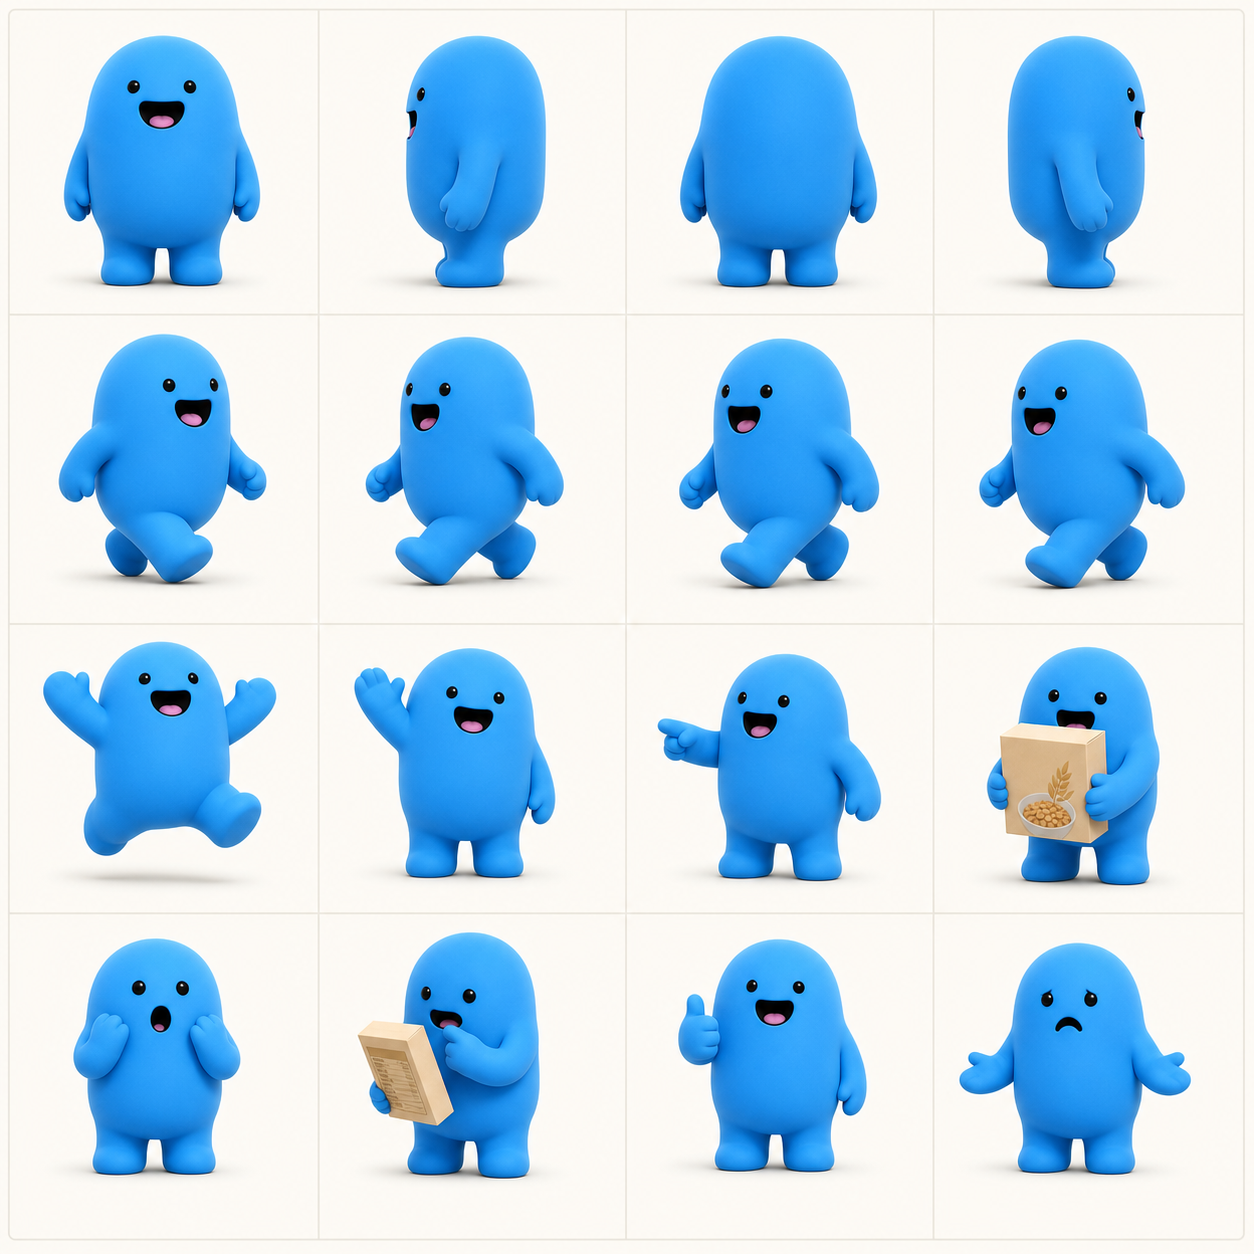
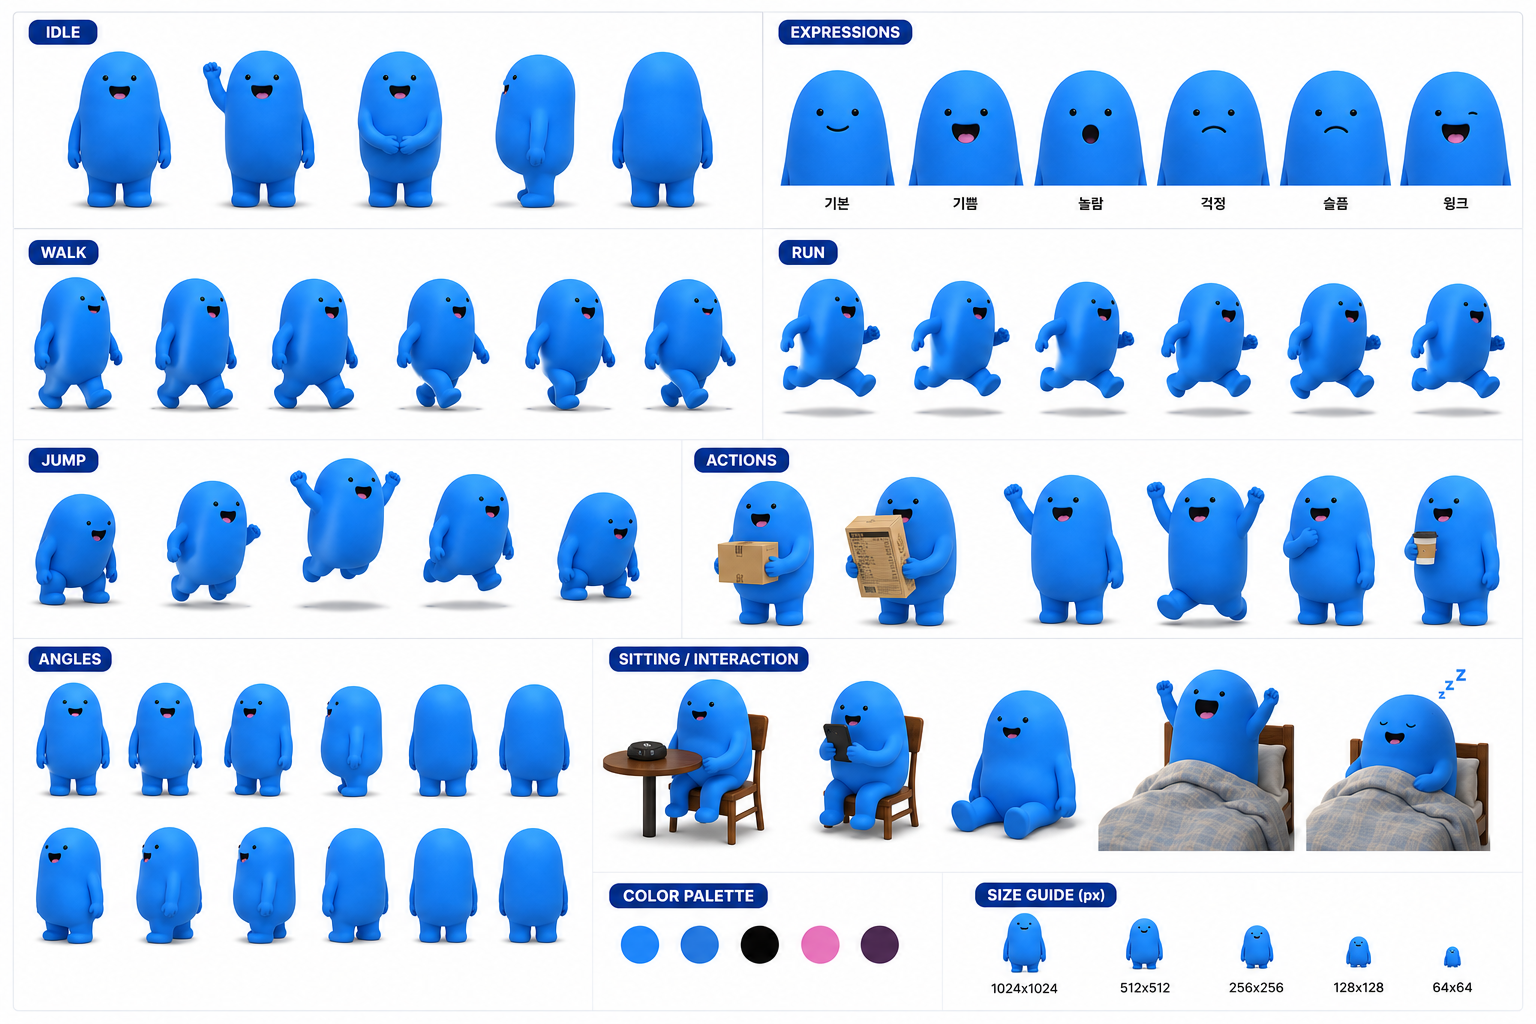
Swap the bodoc character sheet for the sectioned model sheet and add a body-color axis — dogfood-7 cards 02 and 04 rendered a paler cyan-shifted mascot that neither the prompt scaffold nor the reviewer's four-item canon comparison could flag; the new sheet carries a COLOR PALETTE swatch as the color

diff --git a/design-templates/cardnews-instagram/references/review-subagent.md b/design-templates/cardnews-instagram/references/review-subagent.md
@@ -47,11 +47,13 @@
      가중을 달리한다.
      **캐릭터 일관성 — 상위 기준 = 캐논 시트 대조**: `{character_sheet_path}`가
      "없음"이 아니면 시트를 직접 Read(비전)하고 **카드 전장의 캐릭터를 시트와 대조**
-     한다. 대조 4항목 — ① 골격(머리-몸 일체형/목·목선 유무, 팔다리 비례) ② 부속물
+     한다. 대조 5항목 — ① 골격(머리-몸 일체형/목·목선 유무, 팔다리 비례) ② 부속물
      (시트에 없는 링·칼라·장식 — 카드 내용이 명시한 소품·의상은 예외) ③ 질감
-     (매트/광택/직물 등 표면 재질) ④ 입 형태(혀 노출 여부 등 이목구비 디테일).
+     (매트/광택/직물 등 표면 재질) ④ 입 형태(혀 노출 여부 등 이목구비 디테일)
+     ⑤ 색상(바디 블루 톤 — 시트 COLOR PALETTE 대비 명도·채도 이탈, 카드 간
+     상호 대조 병행: 한 카드만 연하거나 시안 쏠림이면 그 카드가 불일치).
      판정 가중: **골격·부속물 불일치 = P0**(사실상 딴 캐릭터 — 발행 차단),
-     **질감·입 디테일 불일치 = P1**. 수정 지시는 모두 "불일치 카드만 개별 재생성
+     **질감·입 디테일·색상 불일치 = P1**. 수정 지시는 모두 "불일치 카드만 개별 재생성
      (성공분 보존)"으로 특정한다. 시트가 "없음"이면 폴백 = 카드 간 캐릭터 형태
      (비율·이목구비·색) 상호 동일성 대조, 불일치 = P0(발행 차단), 동일 수정 지시.
      카드 간 상호 불일치 P0 룰은 시트가 있어도 유지된다(시트 대조가 상위 기준). 캐릭터 스케일·크롭 — 선언 shot 기준으로 대조한다: `"mid"` 선언

diff --git a/plugins/_official/examples/cardnews-instagram/references/review-subagent.md b/plugins/_official/examples/cardnews-instagram/references/review-subagent.md
@@ -47,11 +47,13 @@
      가중을 달리한다.
      **캐릭터 일관성 — 상위 기준 = 캐논 시트 대조**: `{character_sheet_path}`가
      "없음"이 아니면 시트를 직접 Read(비전)하고 **카드 전장의 캐릭터를 시트와 대조**
-     한다. 대조 4항목 — ① 골격(머리-몸 일체형/목·목선 유무, 팔다리 비례) ② 부속물
+     한다. 대조 5항목 — ① 골격(머리-몸 일체형/목·목선 유무, 팔다리 비례) ② 부속물
      (시트에 없는 링·칼라·장식 — 카드 내용이 명시한 소품·의상은 예외) ③ 질감
-     (매트/광택/직물 등 표면 재질) ④ 입 형태(혀 노출 여부 등 이목구비 디테일).
+     (매트/광택/직물 등 표면 재질) ④ 입 형태(혀 노출 여부 등 이목구비 디테일)
+     ⑤ 색상(바디 블루 톤 — 시트 COLOR PALETTE 대비 명도·채도 이탈, 카드 간
+     상호 대조 병행: 한 카드만 연하거나 시안 쏠림이면 그 카드가 불일치).
      판정 가중: **골격·부속물 불일치 = P0**(사실상 딴 캐릭터 — 발행 차단),
-     **질감·입 디테일 불일치 = P1**. 수정 지시는 모두 "불일치 카드만 개별 재생성
+     **질감·입 디테일·색상 불일치 = P1**. 수정 지시는 모두 "불일치 카드만 개별 재생성
      (성공분 보존)"으로 특정한다. 시트가 "없음"이면 폴백 = 카드 간 캐릭터 형태
      (비율·이목구비·색) 상호 동일성 대조, 불일치 = P0(발행 차단), 동일 수정 지시.
      카드 간 상호 불일치 P0 룰은 시트가 있어도 유지된다(시트 대조가 상위 기준). 캐릭터 스케일·크롭 — 선언 shot 기준으로 대조한다: `"mid"` 선언

diff --git a/design-templates/cardnews-instagram/references/imagegen-pipeline.md b/design-templates/cardnews-instagram/references/imagegen-pipeline.md
@@ -71,8 +71,10 @@ Character: [브랜드 캐릭터 있을 때만] Use the exact same character as i
   [캐릭터 시트 앵커 있을 때 필수] The character sheet reference shows the SAME
   single character in multiple views and poses — match its proportions exactly
   (stubby unibody blob, no neck, short limbs), matte texture, tongue-visible
-  mouth, and color. Do not add accessories, collars, or clothing not present
-  in the sheet[, 카드가 소품·의상을 명시하면 해당 항목만 예외로 뒤에 나열].
+  mouth, and color. The body color must be the EXACT same blue as the sheet
+  in every card — no lighter, paler, or cyan-shifted variants. Do not add
+  accessories, collars, or clothing not present in the sheet[, 카드가
+  소품·의상을 명시하면 해당 항목만 예외로 뒤에 나열].
   If any other reference image conflicts with the sheet's character design,
   the sheet wins.
   [cover 고정: The character is the dominant subject: roughly 50-70% of frame

diff --git a/plugins/_official/examples/cardnews-instagram/references/imagegen-pipeline.md b/plugins/_official/examples/cardnews-instagram/references/imagegen-pipeline.md
@@ -71,8 +71,10 @@ Character: [브랜드 캐릭터 있을 때만] Use the exact same character as i
   [캐릭터 시트 앵커 있을 때 필수] The character sheet reference shows the SAME
   single character in multiple views and poses — match its proportions exactly
   (stubby unibody blob, no neck, short limbs), matte texture, tongue-visible
-  mouth, and color. Do not add accessories, collars, or clothing not present
-  in the sheet[, 카드가 소품·의상을 명시하면 해당 항목만 예외로 뒤에 나열].
+  mouth, and color. The body color must be the EXACT same blue as the sheet
+  in every card — no lighter, paler, or cyan-shifted variants. Do not add
+  accessories, collars, or clothing not present in the sheet[, 카드가
+  소품·의상을 명시하면 해당 항목만 예외로 뒤에 나열].
   If any other reference image conflicts with the sheet's character design,
   the sheet wins.
   [cover 고정: The character is the dominant subject: roughly 50-70% of frame
